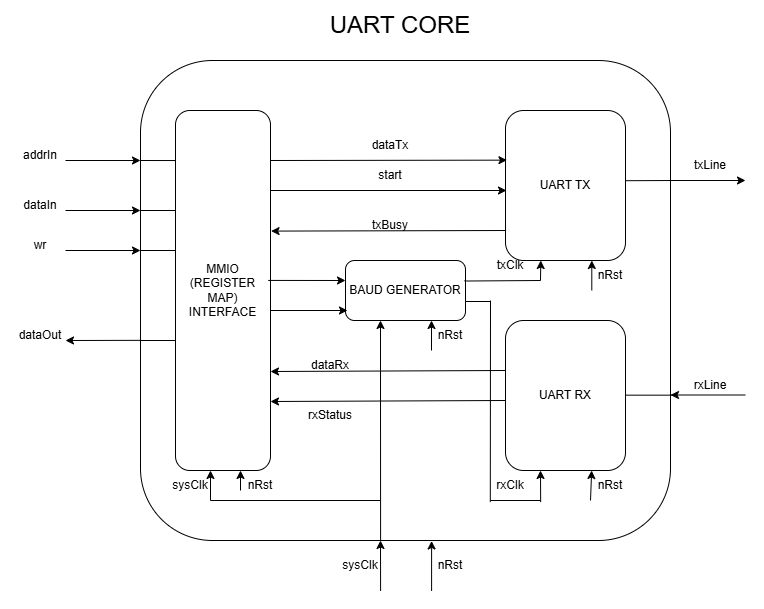
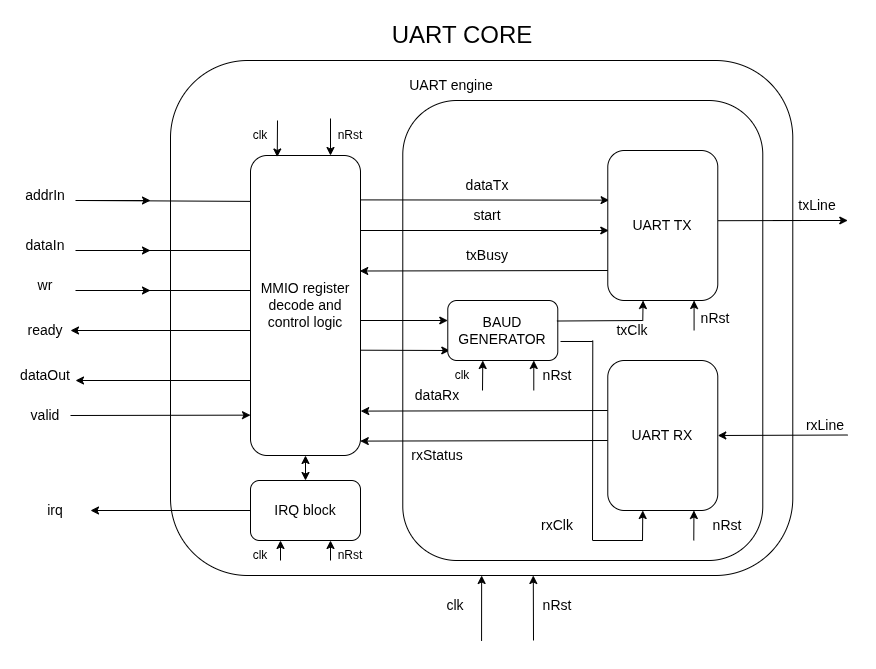
- Modified UART core to have interrupt support - Added handshaking for MMIO interface - Modified UVM flow sequence for backpressure delay for tests - Added bitmap for registers in docs - Added signal interface description in docs - Performed lossy tx write scoreboard checking with basic code coverag

diff --git a/docs/peripherals/uart/core/README.md b/docs/peripherals/uart/core/README.md
@@ -10,18 +10,39 @@ This part of the SoC project implements a simple configurable UART (Universal As
 
 ## Supported behaviour
 1. Write requests to configuration and control registers are silently dropped (not queued and not acknowledged) while TX/RX is busy.
-2. TX and RX components support independent soft reset via `UART_REG_CONTROL`. 
+2. TX and RX components support independent soft reset via `UART_REG_RESET`. 
 System-wide hard reset resets all UART state machines and registers to default state.
 3. Write requests to control register enables TX, RX components as well as optional test mode if both TX, RX are enabled.
+4. Interrupts designed (can be enabled/masked):
+	- RX ready
+	- RX err
+	- TX busy
 
 ## Design
-UART core is split into 3 parts(4 parts if MMIO logic is considered):
-- `baud_generator_int` (shared clock generator for TX and RX with oversampling)
-- `uart_tx` (TX component that handles sending bytes)
-- `uart_rx` (RX component that handles receiving bytes)
-	- `uart_rx_oversampler` (oversampler does oversampling of middle 3 bits to filter out noise)
+UART core is split into following parts:
+- `uart_engine`
+	- `baud_generator_int` (shared clock generator for TX and RX with oversampling)
+	- `uart_tx` (TX component that handles sending bytes)
+	- `uart_rx` (RX component that handles receiving bytes)
+		- `uart_rx_oversampler` (oversampler does oversampling of middle 3 bits to filter out noise)
+- `irq_block`(generic irq block to capture events and accumulate them, even during irq handling)
 
 _Note: MMIO logic is generic and implemented as register decode model executions based on defined register map and access properties_
+
+### Signal interface
+|signal|width|direction|function|
+|------|-----|---------|--------|
+| clk | 1 | in | system uart clock |
+| nRst | 1 | in | active low reset for uart |
+| addrIn | 8 | in | uart memory mapped address |
+| dataIn | 8 | in | uart data in |
+| dataOut | 8 | out | uart data out |
+| wr | 1 | in | write-read signal |
+| valid | 1 | in | valid signal for mmio transaction |
+| ready | 1 | out | backpressure/stall control from uart core |
+| irq | 1 | out | uart interrupt |
+| uartTxLine | 1 | out | uart serial out |
+| uartRxLine | 1 | in | uart serial in |
 
 UART CORE design:
 <p align="center">
@@ -36,13 +57,38 @@ This is the register map defined for MMIO access and used commonly in rtl and ve
 | UART_REG_WRITE/UART_REG_BASE | 0x00 | w only | base alias/write register for uart TX component to send data |
 | UART_REG_READ | 0x04 | r only | read register for reading data from uart RX component |
 | UART_REG_CONFIG | 0x08 | w only | config register for adjusting baud rate relative to sysClk and setting other config such as stop bits and parity |
-| UART_REG_CONTROL | 0x0C | w only | control register to enable/disable TX/RX and soft reset TX/RX via MMIO interface |
-| UART_REG_STATUS | 0x10 | r only | used by external device to poll status or read errors or busy components |
-| UART_REG_INT_STATUS | 0x14 | r only | interrupt status register for listing all interrupts received |
-| UART_REG_INT_MASK | 0x18 | w only | interrupt mask used by external device to enable specific interrupts |
-| UART_REG_INT_PEND | 0x1C | r only | currently pending interrupts (unmasked by external device and active) |
-| UART_REG_INT_CLR | 0x20 | w only | interrupt clear register after handling of interrupts (w1c-write 1 to clear) |
-| UART_REG_END | 0x24 | none | reference for end of UART core register map |
+| UART_REG_CONTROL | 0x0C | w only | control register to enable/disable TX/RX and loopback test mode |
+| UART_REG_RESET | 0x10 | w only | soft reset register for TX and RX|
+| UART_REG_STATUS | 0x14 | r only | used by external device to poll status or read errors or busy components |
+| UART_REG_INT_STATUS | 0x18 | r only | interrupt status register for listing all interrupts received |
+| UART_REG_INT_MASK | 0x1C | w only | interrupt mask used by external device to enable specific interrupts |
+| UART_REG_INT_PEND | 0x20 | r only | currently pending interrupts (unmasked by external device and active) |
+| UART_REG_INT_CLR | 0x24 | w only | interrupt clear register after handling of interrupts (w1c-write 1 to clear) |
+| UART_REG_END | 0x28 | none | reference for end of UART core register map |
+
+
+### Bitmap for registers
+#### UART_REG_CONFIG (MSB->LSB)
+|unused|stop bits|parity|oversampling|baud generator config|
+|------|---------|------|------------|---------------------|
+|13|1|1|1|16|
+#### UART_REG_CONTROL (MSB->LSB)
+|unused|test mode(tx and rx)|rx enable|tx enable|
+|------|------|------------|---------------------|
+|29|1|1|1|
+#### UART_REG_RESET (MSB->LSB)
+|unused|rx soft reset|tx soft reset|
+|------|------------|---------------------|
+|30|1|1|
+#### UART_REG_INT_* (MSB->LSB)
+|unused|tx busy|rx err|rx ready|
+|------|------|------------|---------------------|
+|28|1|2|1|
+#### UART_REG_STATUS (MSB->LSB)
+|unused|rx ready|rx busy|tx busy|
+|------|------|------------|---------------------|
+|29|1|1|1|
+
 
 
 ### Planned features (Not in current release)
@@ -52,22 +98,26 @@ These features are not implemented in this release and may evolve before introdu
 
 ## Verification setup
 ### UVM 
-UVM setup is reusable from agent perspective as the the control interface of the UART core is generic MMIO type interface with signals:`addr`,`wdata`,`rdata`,`wr`,`clk`,`nRst`. So the agent contains generic mmio driver, sequencer, transaction item 
-and interface
+UVM setup is reusable from agent perspective as the the control interface of the UART core is generic MMIO type interface with handshake. So the agent contains generic mmio driver, sequencer, transaction item and interface
 
 MMIO Agent:
 <p align="center">
   <img src="assets/uvmMmioAgentDesign.png" alt="uvmMmioAgentDesign" />
 </p>
 
-_Note: MMIO Monitor not implemented yet_
-
 
 UVM setup:
 <p align="center">
   <img src="assets/uvmUart.png" alt="uvmUart" />
 </p>
-This is base UVM setup with sequences avaiable from a sequence library and extended from base sequence.
+This is base UVM setup with sequences available from a sequence library and extended from base sequence.
+
+
+Waveform for Write and Read with IRQ handling:
+<p align="center">
+  <img src="assets/uartIntrBasedFlowSeq.png" alt="uvmUart" />
+</p>
+
 
 ### Tests supported
 #### Write and Read IRQ test
@@ -80,6 +130,8 @@ interrupt mask register
 - Set interrupt for rx_ready (interrupt mask)
 - Start flow sequence loop (count)
 	- for each iteration
+		- if TX is busy the flow sequence stalls fof configured delay cycles until next TX write is performed
+		to avoid TX write aliasing issue at scoreboard
 		- DUT sends IRQ signals when rx loopback is received
 		- IRQ monitor signals IRQ subscriber port which triggers `irq_event` signal that notifies flow sequence
 		interrupt handle
@@ -88,5 +140,3 @@ interrupt mask register
 			- decide interrupt handling based on bits set
 			- read received data if rx_ready interrupt
 			- clear processed interrupts (rx_read for now)
-
-_Note: Scoreboard, Coverage and Virtual sequencer to be added for full UVM setup with duplex communication of UART_

diff --git a/docs/peripherals/uart/core/CHANGELOG.md b/docs/peripherals/uart/core/CHANGELOG.md
@@ -1,5 +1,32 @@
 # CHANGELOG
 
+## v0.3.0
+### RTL
+#### Added
+1. Added Handshake mechanism on MMIO interface (which extends to AMBA handshakes)
+2. Added uart_engine, separating register decode logic and interrupt generation with 
+uart engine (TX, RX and baud generator).
+#### Modified
+1. Interrupt register now set to 8-bits (might extend in future for more interrupts)
+2. Modified interrupt generation to IRQ block for handling interrupts in a single component. (accumulates events even during irq handling step)
+3. Renamed signal `intr` to `irq` for common signal naming for future components.
+#### Fixed
+1. Fixed UART RX oversampling bug
+
+### UVM
+#### Added (`b78026f`)
+1. Added soft reset sequences to TX, RX
+2. Added MMIO monitor for monitoring transactions for TX writes, RX reads
+3. Added scoreboard (sliding window approach) to verify sent TX bytes against received RX bytes
+in loopback test mode with lossy TX write behaviour (No FIFO).
+4. Added code coverage
+### Modified (`4810b9d`)
+1. Modified flow sequence to handle irq handling and writes separately
+2. Modified flow sequence to handle backpressure with configurable delay cycle timer
+### Fixed (`4158d7c`)
+1. Fixed MMIO driver read 1 cycle delay issue
+
+
 ## v0.2.0
 ### RTL
 #### Fixed

diff --git a/docs/README.md b/docs/README.md
@@ -1,9 +1,14 @@
 # SoC documentation
 
 # Current status:
-## IP level implementations
+## IP level blocks
 ### UART (Core)
 UART Core IP is implemented as a standard MMIO register interface IP with basic peripheral commands and is verified 
 in parallel with respective UVM framework and verilator framework(for fast debug)
 
 Read [UART Core documentation](peripherals/uart/core/README.md)
+
+## Common blocks
+### IRQ block
+Parametrized IRQ block is a commonly used block to latch events generated by the IPs or any other components
+into a single register file with a generic event, mask and clear interface. Separates the concerns of custom management of event generation in IPs.